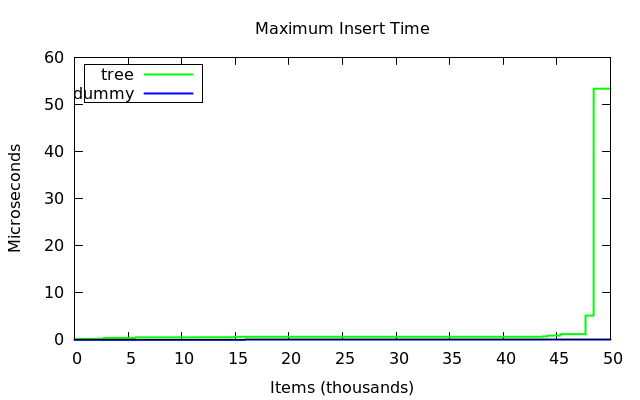
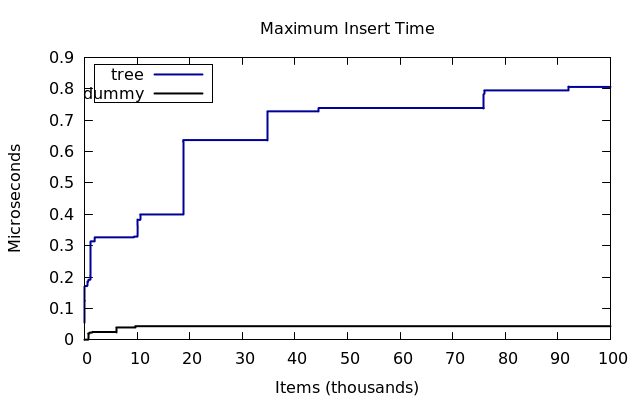
mmap for large spaces

diff --git a/src/lazy-linear.cc b/src/lazy-linear.cc
@@ -186,6 +186,185 @@ struct TieredBitArray {
 
 vector<vector<bool> *> TieredBitArray::old_ones = vector<vector<bool> *>();
 
+struct TieredBoolArray {
+  static size_t blog(size_t n) {
+    assert (0 == (n & (n-1)));
+    size_t ans = 0;
+    while (n > 1) {
+      n /= 2;
+      ++ans;
+    }
+    return ans;
+  }
+  static vector<bool *> old_ones;
+
+  size_t shift;
+  bool ** data;
+  TieredBoolArray(const size_t n) : shift(blog(n)), data(reinterpret_cast<bool **>(calloc(1ull << (shift/2), sizeof(bool*)))) {
+
+  }
+  ~TieredBoolArray() {
+    for (size_t i = 0; i < (1ull << (shift/2)); ++i) {
+      old_ones.push_back(data[i]);
+    }
+    free(data);
+  }
+  TieredBoolArray(const TieredBoolArray&) = delete;
+  TieredBoolArray& operator=(const TieredBoolArray&) = delete;
+  size_t upper(const size_t i) const {
+    return (i >> ((shift+1)/2));
+  }
+  size_t lower(const size_t i) const {
+    //return (i & ((1ull << ((shift/2)+1)) - 1));
+    return (i - (upper(i) << ((shift+1)/2)));
+  }
+  bool check(const size_t& i) const {
+    assert (upper(i) < (1ull << (shift/2)));
+    if (0 == data[upper(i)]) {
+      return false;
+    }
+    return data[upper(i)][lower(i)];
+  }
+  void set(const size_t& i) {
+    if (0 == data[upper(i)]) {
+      data[upper(i)] = reinterpret_cast<bool*>(calloc(1ull << ((shift+1)/2), sizeof(bool)));
+    }
+    data[upper(i)][lower(i)] = true;
+    if (not old_ones.empty()) {
+      free(old_ones.back());
+      old_ones.pop_back();
+    }
+  }
+  void unset(const size_t& i) {
+    if (0 != data[upper(i)]) {
+      data[upper(i)][lower(i)] = false;
+    }
+    if (not old_ones.empty()) {
+      free(old_ones.back());
+      old_ones.pop_back();
+    }
+  }
+  void swap(TieredBoolArray * that) {
+    std::swap(shift, that->shift);
+    std::swap(data, that->data);
+  }
+};
+
+vector<bool *> TieredBoolArray::old_ones = vector<bool *>();
+
+struct TieredPackedBitArray {
+  static size_t blog(size_t n) {
+    assert (0 == (n & (n-1)));
+    size_t ans = 0;
+    while (n > 1) {
+      n /= 2;
+      ++ans;
+    }
+    return ans;
+  }
+  static vector<size_t *> old_ones;
+  //const static word_size = 8 * sizeof(size_t);
+  const static size_t word_log = 6;
+  const static size_t word_mask = 63;
+
+  size_t shift;
+  size_t ** data;
+  TieredPackedBitArray(const size_t n) 
+    : shift(blog(n >> word_log)), 
+      data(reinterpret_cast<size_t **>(calloc(1ull << (shift/2), sizeof(size_t *)))) {
+
+  }
+  ~TieredPackedBitArray() {
+    for (size_t i = 0; i < (1ull << (shift/2)); ++i) {
+      old_ones.push_back(data[i]);
+    }
+    free(data);
+  }
+  TieredPackedBitArray(const TieredPackedBitArray&) = delete;
+  TieredPackedBitArray& operator=(const TieredPackedBitArray&) = delete;
+  size_t upper(const size_t i) const {
+    return ((i >> word_log) >> ((shift+1)/2));
+  }
+  size_t lower(const size_t i) const {
+    //return (i & ((1ull << ((shift/2)+1)) - 1));
+    return ((i >> word_log) - (upper(i) << ((shift+1)/2)));
+  }
+  bool check(const size_t& i) const {
+    assert (upper(i) < (1ull << (shift/2)));
+    if (0 == data[upper(i)]) {
+      return false;
+    }
+    return data[upper(i)][lower(i)] & (1ull << (i & word_mask));
+  }
+  void set(const size_t& i) {
+    if (0 == data[upper(i)]) {
+      data[upper(i)] = reinterpret_cast<size_t *>(calloc(1ull << ((shift+1)/2), sizeof(size_t)));
+    }
+    data[upper(i)][lower(i)] |= (1ull << (i & word_mask));
+    if (not old_ones.empty()) {
+      free(old_ones.back());
+      old_ones.pop_back();
+    }
+  }
+  void unset(const size_t& i) {
+    if (0 != data[upper(i)]) {
+      data[upper(i)][lower(i)] &= ~(1ull << (i & word_mask));
+    }
+    if (not old_ones.empty()) {
+      free(old_ones.back());
+      old_ones.pop_back();
+    }
+  }
+  void swap(TieredPackedBitArray * that) {
+    std::swap(shift, that->shift);
+    std::swap(data, that->data);
+  }
+};
+
+vector<size_t *> TieredPackedBitArray::old_ones = vector<size_t *>();
+
+#include <sys/mman.h>
+
+struct ImplicitBitArray {
+  const static size_t word_log = 6;
+  const static size_t word_mask = 63;
+  const static size_t page_size;
+
+  size_t size;
+  size_t * data;
+  ImplicitBitArray(const size_t n) 
+    : size(n),
+      data(reinterpret_cast<size_t *>
+           ( (n/8 >= page_size) 
+             ? mmap(0, n/8, PROT_READ | PROT_WRITE, MAP_PRIVATE | MAP_ANONYMOUS, 0, 0)
+             : calloc(n >> word_log, 1ull << word_log))) {}
+
+  ~ImplicitBitArray() {
+    if (size/8 >= page_size) {
+      munmap(data, size/8);
+    } else {
+      free(data);
+    }
+  }
+  ImplicitBitArray(const ImplicitBitArray&) = delete;
+  ImplicitBitArray& operator=(const ImplicitBitArray&) = delete;
+  bool check(const size_t& i) const {
+    return data[i >> word_log] & (1ull << (i & word_mask));
+  }
+  void set(const size_t& i) {
+    data[i >> word_log] |= (1ull << (i & word_mask));
+  }
+  void unset(const size_t& i) {
+    data[i >> word_log] &= ~(1ull << (i & word_mask));
+  }
+  void swap(ImplicitBitArray * that) {
+    std::swap(size, that->size);
+    std::swap(data, that->data);
+  }
+};
+
+const size_t ImplicitBitArray::page_size = sysconf(_SC_PAGE_SIZE) * 8;
+
 template<typename T>
 struct BasicArray {
   T * data;

diff --git a/src/benchmark/insert-maxtime.cc b/src/benchmark/insert-maxtime.cc
@@ -184,8 +184,8 @@ void print_test(std::vector<std::tuple<unsigned, double, double> > x) {
 
 int main(int argc, char ** argv) {
   srand(0);
-  unsigned size = 50000;//00;
-  unsigned samples = 1 << 8;
+  unsigned size = 1000000;//00;
+  unsigned samples = 1 << 5;
   if (4 == argc) {
     size = read<unsigned>(argv[2]);
     samples = read<unsigned>(argv[3]);
@@ -200,7 +200,12 @@ int main(int argc, char ** argv) {
   typedef quiet_map<sample_type, lazier_map<sample_type, BasicBitArray, BasicArray<slot<sample_type > > > > try2;
   //typedef quiet_map<sample_type, lazier_map<sample_type, AhoBitArray> > try3;
   typedef quiet_map<sample_type, lazier_map<sample_type, TieredBitArray, BasicArray<slot<sample_type > > > > try4;
-  typedef quiet_map<sample_type, lazier_map<sample_type, BasicBitArray, TieredArray<slot<sample_type > > > > try5;
+  typedef quiet_map<sample_type, lazier_map<sample_type, BasicBitArray, TieredArray<slot<sample_type > > > > try5; // good
+  typedef quiet_map<sample_type, lazier_map<sample_type, TieredBitArray, TieredArray<slot<sample_type > > > > try6;
+  typedef quiet_map<sample_type, lazier_map<sample_type, TieredBoolArray, TieredArray<slot<sample_type > > > > try7;
+  typedef quiet_map<sample_type, lazier_map<sample_type, AhoBitArray, TieredArray<slot<sample_type > > > > try8;
+  typedef quiet_map<sample_type, lazier_map<sample_type, TieredPackedBitArray, TieredArray<slot<sample_type > > > > try9;
+  typedef quiet_map<sample_type, lazier_map<sample_type, ImplicitBitArray, TieredArray<slot<sample_type > > > > try10; // good
 
   switch(which) {
   case 0:
@@ -223,6 +228,9 @@ int main(int argc, char ** argv) {
     break;
   case 6:
     test<try5, dummy>(size, samples);
+    break;
+  case 7:
+    test<try10, dummy>(size, samples);
     break;
   }
 
